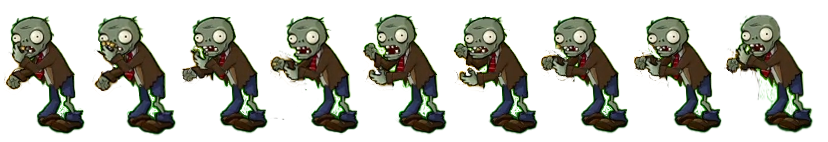
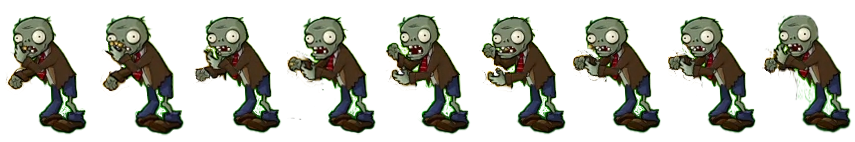
fixed load game

diff --git a/src/main/java/scenes/PlayScene.java b/src/main/java/scenes/PlayScene.java
@@ -1,4 +1,5 @@
 package scenes;
+
 import UI.MainContainer;
 import abc.*;
 import com.google.gson.Gson;
@@ -68,8 +69,8 @@ public class PlayScene extends Scene {
 		
 		if (this.dataLoaded) return;
 		
-		Spritesheet spritesheet = AssetPool.getSpritesheet("assets/zombies/zombie_move.png");
-		test = Prefabs.generateZombie(spritesheet.getSprite(0));
+		test = Prefabs.generateZombie(AssetPool.getSpritesheet("assets/zombies/zombie_move.png"),
+				AssetPool.getSpritesheet("assets/zombies/zomattack.png"));
 		this.addZombie(test);
 		
 	}
@@ -79,10 +80,12 @@ public class PlayScene extends Scene {
 		new Spritesheet("assets/zombies/zombie_move.png", Const.ZOMBIE_WIDTH, Const.ZOMBIE_HEIGHT, 14, 14);
 		new Spritesheet("assets/bg1.jpg", 1400, 600, 1, 1);
 		new Spritesheet("assets/plants/sunflower.png", Const.PLANT_WIDTH, Const.PLANT_HEIGHT, 6, 6);
-		new Spritesheet("assets/plants/pea.png", Const.PLANT_WIDTH, Const.PLANT_HEIGHT, 13, 13);
-		new Spritesheet("assets/plants/snowpea.png", Const.PLANT_WIDTH, Const.PLANT_HEIGHT, 12, 12);
+		new Spritesheet("assets/plants/peashooter_idle.png", Const.PLANT_WIDTH, Const.PLANT_HEIGHT, 8, 8);
+		new Spritesheet("assets/plants/peashooter_shoot.png", Const.PLANT_WIDTH, Const.PLANT_HEIGHT, 13, 13);
+		new Spritesheet("assets/plants/snowpeashooter_idle.png", Const.PLANT_WIDTH, Const.PLANT_HEIGHT, 8, 8);
+		new Spritesheet("assets/plants/snowpeashooter_shoot.png", Const.PLANT_WIDTH, Const.PLANT_HEIGHT, 12, 12);
 		new Spritesheet("assets/ui/seedrow.png", 54, 75, 3, 3);
-	
+		new Spritesheet("assets/zombies/zomattack.png", Const.ZOMBIE_WIDTH + 10, Const.ZOMBIE_HEIGHT, 9, 9);
 	
 	}
 	
@@ -107,7 +110,8 @@ public class PlayScene extends Scene {
 				if (this.zombies.get(i).size() > 0) {
 					for (GameObject g : this.zombies.get(i)) {
 						if (Bounds.checkCollision(nearestPlant.getComponent(Bounds.class), g.getComponent(Bounds.class))) {
-							System.out.println("Collision detected!");
+							g.getComponent(Movement.class).setVelocity(new Vector2D());
+							g.getComponent(StateMachine.class).trigger("attack");
 						}
 					}
 				}
@@ -124,7 +128,6 @@ public class PlayScene extends Scene {
 				}
 			}
 		}
-		/*
 		if (this.gameObjects.size() > 0) {
 			for (int i = 0; i < this.gameObjects.size(); i++) {
 				updateObject = this.gameObjects.get(i);
@@ -136,15 +139,13 @@ public class PlayScene extends Scene {
 				}
 			}
 		}
-		*/
+		
 		this.mouseControl.update(dt);
 		this.mainContainer.update(dt);
 		// press Enter to save game
 		if (KeyListener.get().is_keyPressed(KeyEvent.VK_ENTER)) {
 			this.save();
 		}
-		//System.out.println(MouseListener.getX());
-		//System.out.println(MouseListener.getY());
 	}
 	
 	@Override
@@ -158,6 +159,7 @@ public class PlayScene extends Scene {
 		Gson gson = new GsonBuilder().setPrettyPrinting()
 				.registerTypeAdapter(Component.class, new ComponentDeserializer())
 				.registerTypeAdapter(GameObject.class, new GameObjectDeserializer())
+				.enableComplexMapKeySerialization()
 				.create();
 		// add all objects to one list
 		List<GameObject> saveList = new ArrayList<>();
@@ -187,6 +189,7 @@ public class PlayScene extends Scene {
 		Gson gson = new GsonBuilder().setPrettyPrinting()
 				.registerTypeAdapter(Component.class, new ComponentDeserializer())
 				.registerTypeAdapter(GameObject.class, new GameObjectDeserializer())
+				.enableComplexMapKeySerialization()
 				.create();
 		String inFile = "";
 		try {
@@ -199,32 +202,27 @@ public class PlayScene extends Scene {
 			for (int i = 0; i < Objects.length; i++) {
 				StateMachine stateMachine = Objects[i].getComponent(StateMachine.class);
 				if (stateMachine != null) {
-					// TODO: bug fixing
-					String file_path = stateMachine.states.get(0).file_path;
-					Spritesheet spritesheet = AssetPool.getSpritesheet(file_path);
-					Objects[i].removeComponent(StateMachine.class);
-					StateMachine newStateMachine = new StateMachine();
-					AnimationState state = new AnimationState();
-					for (int j = 0; j < spritesheet.sprites.size(); j++) {
-						state.addFrame(spritesheet.getSprite(j), Const.DEFAULT_FRAME_TIME);
+					for (AnimationState state : stateMachine.states) {
+						Spritesheet spritesheet = AssetPool.getSpritesheet(state.file_path);
+						state.frames.clear();
+						for (Sprite sprite : spritesheet.sprites) {
+							state.addFrame(sprite.copy(), Const.DEFAULT_FRAME_TIME);
+						}
 					}
-					newStateMachine.addState(state);
-					Objects[i].addComponent(newStateMachine);
-				}
-				
-				Sprite sprite = Objects[i].getComponent(Sprite.class);
-				if (sprite != null && sprite.isSubImage) {
-					String file_path = sprite.file_path;
-					int index = sprite.index;
-					Spritesheet spritesheet = AssetPool.getSpritesheet(file_path);
-					sprite = spritesheet.getSprite(index).copy();
-					// remove old Sprite which does not have image
-					Objects[i].removeComponent(Sprite.class);
-					if (sprite != null) {
-						Objects[i].addComponent(sprite);
+				} else {
+					Sprite sprite = Objects[i].getComponent(Sprite.class);
+					if (sprite != null && sprite.isSubImage) {
+						String file_path = sprite.file_path;
+						int index = sprite.index;
+						Spritesheet spritesheet = AssetPool.getSpritesheet(file_path);
+						sprite = spritesheet.getSprite(index).copy();
+						// remove old Sprite which does not have image
+						Objects[i].removeComponent(Sprite.class);
+						if (sprite != null) {
+							Objects[i].addComponent(sprite);
+						}
 					}
 				}
-				
 				if (Objects[i].objectType == Type.ZOMBIE) {
 					this.addZombie(Objects[i]);
 				} else if (Objects[i].objectType == Type.PLANT) {
@@ -240,10 +238,6 @@ public class PlayScene extends Scene {
 	@Override
 	public void addZombie(GameObject zombie) {
 		Bounds bounds = zombie.getComponent(Bounds.class);
-		if (bounds == null) {
-			System.out.println("Forgot to add Bounds to zombie!");
-			//return;
-		}
 		int line = zombie.line;
 		switch (line) {
 			case 1:
@@ -275,11 +269,6 @@ public class PlayScene extends Scene {
 		if (plant.transform.position.x + Const.PLANT_WIDTH < 60 || plant.transform.position.x > Const.SCREEN_WIDTH ||
 		plant.transform.position.y + Const.PLANT_HEIGHT < 70 || plant.transform.position.y > Const.SCREEN_HEIGHT) {
 			return;
-		}
-		Bounds bounds = plant.getComponent(Bounds.class);
-		if (bounds == null) {
-			System.out.println("Forgot to add Bounds to plant!");
-			//return;
 		}
 		this.plants.get(plant.line).add(plant);
 		if (this.isRunning) plant.start();

diff --git a/src/main/java/abc/Prefabs.java b/src/main/java/abc/Prefabs.java
@@ -4,31 +4,70 @@ import util.Const;
 import util.Vector2D;
 
 public class Prefabs {
-	public static GameObject generatePlant(Spritesheet spritesheet) {
-		GameObject newPlant = new GameObject("SpriteObject", new Transform(new Vector2D(), new Vector2D()), Const.MOUSE_ZINDEX, Type.PLANT, 1);
+	public static GameObject generateSpriteObject(Sprite sprite) {
+		GameObject newObject = new GameObject("SpriteObject", 0);
+		newObject.addComponent(sprite.copy());
+		return newObject;
+	}
+	public static GameObject generatePeashooter(Spritesheet idle, Spritesheet shoot) {
+		GameObject newPlant = new GameObject("newPlant", new Transform(new Vector2D(), new Vector2D()), Const.MOUSE_ZINDEX, Type.PLANT, 1);
 		newPlant.addComponent(new Bounds(Const.PLANT_WIDTH, Const.PLANT_HEIGHT));
 		newPlant.addComponent(new Rigidbody(Const.PLANT_HP));
-		AnimationState idleState = new AnimationState(spritesheet.file_path);
-		idleState.title = "idle";
-		//float defaultFrameTime = 0.18f;
-		for (int i = 0; i < spritesheet.sprites.size(); i++) {
-			idleState.addFrame(spritesheet.getSprite(i), Const.DEFAULT_FRAME_TIME);
-		}
-		idleState.setLoop(true);
 		StateMachine stateMachine = new StateMachine();
-		stateMachine.addState(idleState);
+		AnimationState idleState = new AnimationState(idle.file_path);
+		idleState.title = "idle";
+		if (shoot != null) {
+			AnimationState shootState = new AnimationState(shoot.file_path);
+			
+			shootState.title = "shoot";
+			for (int i = 0; i < idle.sprites.size(); i++) {
+				idleState.addFrame(idle.getSprite(i).copy(), Const.DEFAULT_FRAME_TIME);
+			}
+			for (int i = 0; i < shoot.sprites.size(); i++) {
+				shootState.addFrame(shoot.getSprite(i).copy(), Const.DEFAULT_FRAME_TIME);
+			}
+			idleState.setLoop(true);
+			shootState.setLoop(true);
+			stateMachine.addState(idleState);
+			stateMachine.addState(shootState);
+			stateMachine.addStateTrigger(idleState.title, shootState.title, "shoot");
+			stateMachine.addStateTrigger(shootState.title, idleState.title, "stopShooting");
+		} else {
+			for (int i = 0; i < idle.sprites.size(); i++) {
+				idleState.addFrame(idle.getSprite(i).copy(), Const.DEFAULT_FRAME_TIME);
+			}
+			idleState.setLoop(true);
+			stateMachine.addState(idleState);
+		}
 		stateMachine.setDefaultState(idleState.title);
 		newPlant.addComponent(stateMachine);
 		return newPlant;
 	}
 	
-	public static GameObject generateZombie(Sprite sprite) {
+	public static GameObject generateZombie(Spritesheet walk, Spritesheet attack) {
 		GameObject newZombie = new GameObject("new Zombie", new Transform(new Vector2D(850.0f, 0.0f), new Vector2D()),
-				Const.ZOMBIE_ZINDEX, Type.ZOMBIE, 1);
-		newZombie.addComponent(sprite.copy());
+				Const.ZOMBIE_ZINDEX, Type.ZOMBIE, 3);
 		newZombie.addComponent(new Movement(new Vector2D(Const.ZOMBIE_SPEED, 0.0f)));
 		newZombie.addComponent(new Bounds(Const.ZOMBIE_WIDTH, Const.ZOMBIE_HEIGHT));
 		newZombie.addComponent(new Rigidbody(Const.ZOMBIE_HP));
+		StateMachine stateMachine = new StateMachine();
+		AnimationState walkState = new AnimationState(walk.file_path);
+		AnimationState attackState = new AnimationState(attack.file_path);
+		walkState.title = "walk";
+		attackState.title = "attack";
+		for (int i = 0; i < walk.sprites.size(); i++) {
+			walkState.addFrame(walk.getSprite(i).copy(), Const.DEFAULT_FRAME_TIME);
+		}
+		for (int i = 0; i < attack.sprites.size(); i++) {
+			attackState.addFrame(attack.getSprite(i).copy(), Const.DEFAULT_FRAME_TIME);
+		}
+		walkState.setLoop(true);
+		attackState.setLoop(true);
+		stateMachine.addState(walkState);
+		stateMachine.addState(attackState);
+		stateMachine.addStateTrigger(walkState.title, attackState.title, "attack");
+		stateMachine.setDefaultState(walkState.title);
+		newZombie.addComponent(stateMachine);
 		return newZombie;
 	}
 	

diff --git a/src/main/java/UI/MainContainer.java b/src/main/java/UI/MainContainer.java
@@ -24,8 +24,10 @@ public class MainContainer extends Component {
 	public void init() {
 		Spritesheet buttonSprites = AssetPool.getSpritesheet("assets/ui/seedrow.png");
 		Spritesheet itemSprites = AssetPool.getSpritesheet("assets/plants/sunflower.png");
-		Spritesheet itemSprites1 = AssetPool.getSpritesheet("assets/plants/pea.png");
-		Spritesheet itemSprites2 = AssetPool.getSpritesheet("assets/plants/snowpea.png");
+		Spritesheet itemSprites1 = AssetPool.getSpritesheet("assets/plants/peashooter_idle.png");
+		Spritesheet itemSprites2 = AssetPool.getSpritesheet("assets/plants/peashooter_shoot.png");
+		Spritesheet itemSprites3 = AssetPool.getSpritesheet("assets/plants/snowpeashooter_idle.png");
+		Spritesheet itemSprites4 = AssetPool.getSpritesheet("assets/plants/snowpeashooter_shoot.png");
 		
 		int col = 0;
 		for (int i = 0; i < buttonSprites.sprites.size(); i++) {
@@ -38,11 +40,16 @@ public class MainContainer extends Component {
 			GameObject newObject = new GameObject("Item", Const.CONTAINER_ZINDEX);
 			newObject.transform = transform;
 			newObject.addComponent(currentSprite.copy());
-			
 			MenuItem menuItem = new MenuItem(x, y, Const.BUTTON_WIDTH, Const.BUTTON_HEIGHT, currentSprite, null);
-			if (col == 0) menuItem.itemSpritesheet = itemSprites;
-			else if (col == 1) menuItem.itemSpritesheet = itemSprites1;
-			else if (col == 2) menuItem.itemSpritesheet = itemSprites2;
+			if (col == 0) {
+				menuItem.itemSpritesheet1 = itemSprites;
+			} else if (col == 1) {
+				menuItem.itemSpritesheet1 = itemSprites1;
+				menuItem.itemSpritesheet2 = itemSprites2;
+			} else if (col == 2) {
+				menuItem.itemSpritesheet1 = itemSprites3;
+				menuItem.itemSpritesheet2 = itemSprites4;
+			}
 			newObject.addComponent(menuItem);
 			menuItems.add(newObject);
 			col++;

diff --git a/src/main/java/components/StateMachine.java b/src/main/java/components/StateMachine.java
@@ -56,16 +56,9 @@ public class StateMachine extends Component {
 	
 	public void trigger(String trigger) {
 		for (StateTrigger state : this.stateTransfers.keySet()) {
-			if (state.state.equals(currentState.title) && state.trigger.equals(trigger)) {
+			if (state.state.equals(this.currentState.title) && state.trigger.equals(trigger)) {
 				if (this.stateTransfers.get(state) != null) {
-					int newStateIndex = -1, index = 0;
-					for (AnimationState a : this.states) {
-						if (a.title.equals(this.stateTransfers.get(state))) {
-							newStateIndex = index;
-							break;
-						}
-						index++;
-					}
+					int newStateIndex = stateIndexOf(this.stateTransfers.get(state));
 					if (newStateIndex > -1) {
 						this.currentState = this.states.get(newStateIndex);
 					}
@@ -73,7 +66,19 @@ public class StateMachine extends Component {
 				return;
 			}
 		}
-		System.out.println("Cannot find Trigger: " + trigger);
+		//System.out.println("Cannot find Trigger: " + trigger);
+	}
+	
+	private int stateIndexOf(String stateTitle) {
+		int index = 0;
+		for (AnimationState state : states) {
+			if (state.title.equals(stateTitle)) {
+				return index;
+			}
+			index++;
+		}
+		
+		return -1;
 	}
 	
 	@Override

diff --git a/src/main/java/UI/MenuItem.java b/src/main/java/UI/MenuItem.java
@@ -12,7 +12,8 @@ import java.awt.event.MouseEvent;
 
 public class MenuItem extends Component {
 	public Sprite lightSprite, darkSprite;
-	public Spritesheet itemSpritesheet = null;
+	public Spritesheet itemSpritesheet1 = null;
+	public Spritesheet itemSpritesheet2 = null;
 	private int x, y , width, height;
 	public boolean isSelected;
 	
@@ -51,7 +52,7 @@ public class MenuItem extends Component {
 					newObject.addComponent(sprite);
 					scene.mouseCursor = newObject;
 					*/
-					GameObject newObject = Prefabs.generatePlant(this.itemSpritesheet);
+					GameObject newObject = Prefabs.generatePeashooter(this.itemSpritesheet1, this.itemSpritesheet2);
 					PlayScene scene = (PlayScene) Window.getScene();
 					scene.mouseControl.pickUpObject(newObject);
 					this.isSelected = true;

diff --git a/src/main/java/components/Bounds.java b/src/main/java/components/Bounds.java
@@ -44,7 +44,7 @@ public class Bounds extends Component {
 		b1.calculateCenter();
 		b2.calculateCenter();
 		float dx = b2.center.x - b1.center.x;
-		float combineHalfW = b1.halfW + b2.halfW - 5;
+		float combineHalfW = b1.halfW + b2.halfW - 18;
 		if (Math.abs(dx) <= combineHalfW) {
 			return true;
 		}

diff --git a/src/main/java/components/Movement.java b/src/main/java/components/Movement.java
@@ -12,6 +12,10 @@ public class Movement extends Component {
 		this.velocity = velocity;
 	}
 	
+	public void setVelocity(Vector2D velocity) {
+		this.velocity = velocity;
+	}
+	
 	@Override
 	public void update(double dt) {
 		this.gameObject.transform.position.x -= this.velocity.x * dt;

diff --git a/src/main/java/util/Const.java b/src/main/java/util/Const.java
@@ -42,6 +42,6 @@ public class Const {
 	public static final int GROUND_ZINDEX = -5;
 	public static final int CONTAINER_ZINDEX = 3;
 	
-	public static final float DEFAULT_FRAME_TIME = 0.18f;
+	public static final float DEFAULT_FRAME_TIME = 0.16f;
 	
 }

diff --git a/src/main/java/util/Vector2D.java b/src/main/java/util/Vector2D.java
@@ -4,8 +4,8 @@ public class Vector2D {
 	public float x, y;
 	
 	public Vector2D() {
-		this.x = 0;
-		this.y = 0;
+		this.x = 0.0f;
+		this.y = 0.0f;
 	}
 	
 	public Vector2D(float x, float y) {
